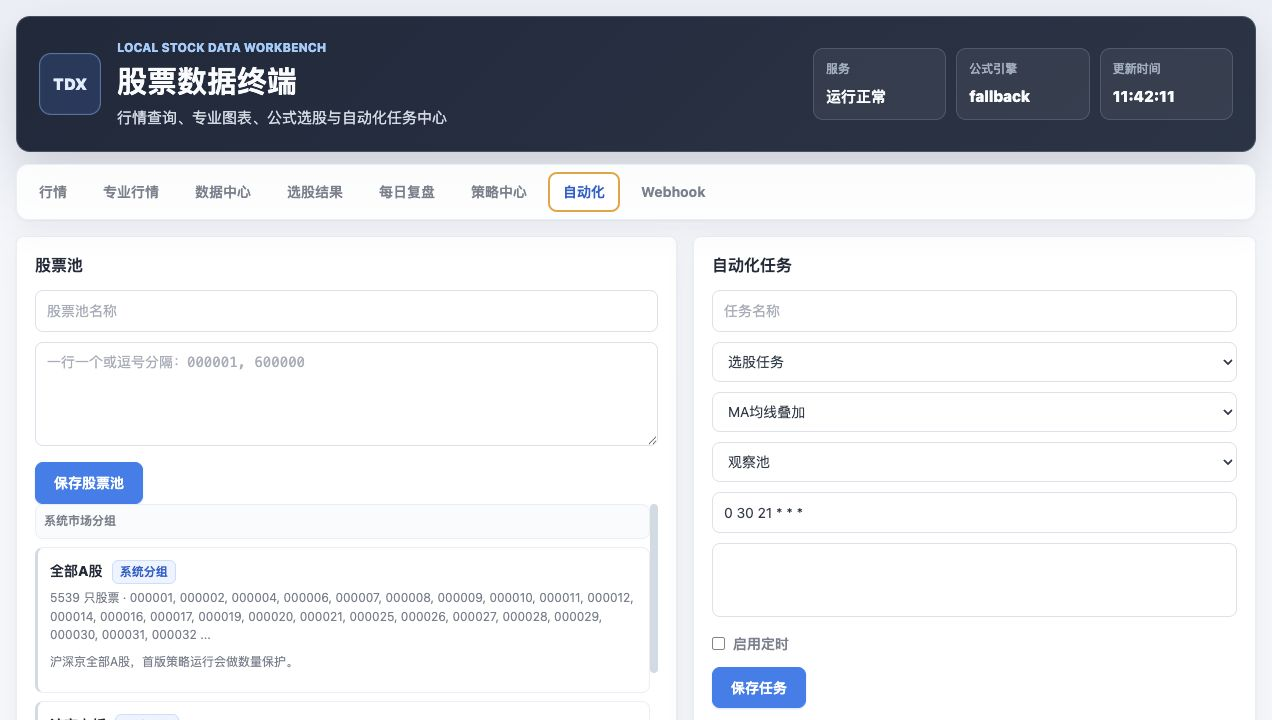
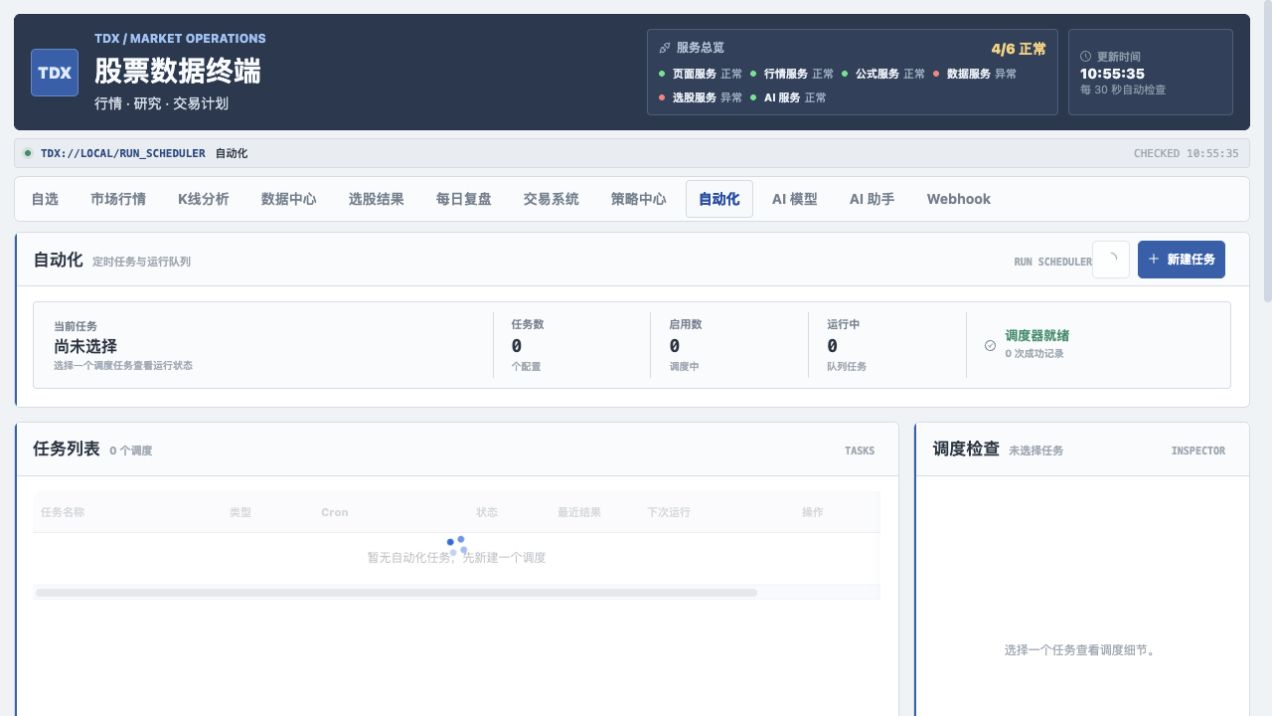
feat: 更新ReadMe

diff --git a/README.md b/README.md
@@ -2,18 +2,19 @@
 
 一个本地运行的 A 股行情与交易研究工作台。
 
-TDX Workbench 把通达信行情、历史 K 线、分时、财务、板块、公式、选股、自动化、交易计划和 AI 辅助分析集中到一个 Web 界面中。它适合用来做个人研究、策略验证、盘后复盘和本地数据服务，不定位为交易终端或投资顾问。
+TDX Workbench 把通达信行情、历史 K 线、分时、财务、板块、公式、选股、自动化、交易计划和 AI 辅助分析集中到一个 Web 界面中。它适合个人研究、策略验证、盘后复盘和本地数据服务，不定位为交易终端或投资顾问。
 
 > 行情数据可能延迟、缺失或出错。AI 输出仅供学习研究和复盘，不构成投资建议。
 
-![TDX Workbench 行情工作台](docs/assets/tdx-workbench-market.png)
+![TDX Workbench 自选列表（当前 React 工作台）](docs/assets/tdx-workbench-market.png)
 
 ## 你可以用它做什么
 
 | 工作区 | 适合做的事 |
 | --- | --- |
 | 自选 | 查看自选列表、实时行情、五档盘口，并打开个股行情弹窗 |
-| 专业行情 | 查看多周期 K 线、分时和自定义指标，支持在 K 线中切换个人公式 |
+| 市场行情 | 查看多周期 K 线、分时和自定义指标，支持在 K 线中切换个人公式 |
+| K 线分析 | 结合历史 K 线、指标和 AI 做结构化研究 |
 | 数据中心 | 查询股票代码、市场概览、财务/F10、股本和收益测算数据 |
 | 选股结果 | 浏览公式选股命中结果，按股票或公式筛选并跳转行情 |
 | 每日复盘 | 沉淀盘后观察、信号和复盘记录 |
@@ -21,14 +22,10 @@ TDX Workbench 把通达信行情、历史 K 线、分时、财务、板块、公
 | 策略中心 | 管理策略规则、执行策略和查看回测/运行结果 |
 | 自动化 | 维护股票池，按 Cron 定时运行公式选股或系统同步 |
 | AI 模型 | 配置 DeepSeek、OpenAI-compatible、通义千问、智谱 GLM 等模型 |
-| 自选分析 | 使用已配置的 AI 模型，结合实时行情、日 K、财务和资讯分析自选池 |
+| AI 助手 / 自选分析 | 结合实时行情、日 K、财务和资讯进行对话或分析自选池 |
 | Webhook | 把选股、策略和自动化任务结果发送到外部通知地址 |
 
-## 功能预览
-
-### 行情与研究
-
-![行情工作台](docs/assets/tdx-workbench-market.png)
+## 当前界面预览
 
 ### 数据中心
 
@@ -67,7 +64,7 @@ curl http://localhost:8080/api/health
 curl http://localhost:8080/api/services/status
 ```
 
-首次启动后，进入页面顶部的 `AI 模型` 工作区，保存一个模型配置，再从 `自选` 工作区点击 `自选分析`。
+首次使用 AI 时，进入 `AI 模型` 工作区保存并启用一个模型配置，再从 `自选` 工作区点击 `自选分析`。不配置 AI 也可以使用行情、数据、公式和策略功能。
 
 ### 常用 Docker 命令
 
@@ -85,14 +82,16 @@ docker compose logs -f ai-service
 docker compose down
 ```
 
+Compose 是完整六服务部署的标准入口。根目录 `Dockerfile` 是早期的单镜像兼容方案，只包含 Web 与公式 worker，不等价于完整 Compose 部署。
+
 ## 系统架构
 
 ```mermaid
 flowchart LR
-    Browser[浏览器 Web 工作台] --> Web[stock-web<br/>页面与 API 网关]
-    Web --> Market[market-service<br/>行情与历史数据]
-    Web --> Formula[formula-worker<br/>公式执行]
-    Web --> Selection[selection-worker<br/>选股与自动化]
+    Browser[浏览器 Web 工作台] --> Web[stock-web<br/>React 页面与 API 网关]
+    Web --> Market[market-service<br/>行情与市场信息]
+    Web --> Formula[formula-worker<br/>HQChartPy2 / fallback]
+    Web --> Selection[selection-worker<br/>选股、策略与自动化]
     Web --> AI[ai-service<br/>模型调用与分析]
     Web --> Hikyuu[hikyuu-data-service<br/>历史数据同步]
     Selection --> Market
@@ -106,7 +105,7 @@ flowchart LR
     AI --> Local
 ```
 
-项目采用多服务结构，但仍然可以通过一条 Compose 命令启动完整闭环。Web 服务负责页面和统一入口，行情、公式、选股、AI 和历史数据分别由独立服务承担，便于单独构建、重启和排障。
+项目采用多服务结构，但仍可以通过一条 Compose 命令启动完整闭环。Go 负责协议、服务 API 和任务调度，Python 负责公式与 Hikyuu 运行时，React 负责工作台 UI。按运行时和故障域拆分是合理的，也便于单独构建、重启和排障；代价是部署、监控与跨服务数据一致性的复杂度更高。
 
 ## 服务清单
 
@@ -118,6 +117,8 @@ flowchart LR
 | 指标选股 | `services/selection-worker/` | `tdx-workbench-selection` | `18082` | 股票池、公式选股、策略和自动化任务 |
 | AI 分析 | `services/ai-service/` | `tdx-workbench-ai` | `18083` | 模型配置、聊天、单股分析和自选分析 |
 | Hikyuu 数据 | `services/hikyuu-data-service/` | `tdx-workbench-hikyuu-data` | `18091` | 全量数据、盘后增量同步和任务状态 |
+
+正常使用只需要访问 `8080`。其他宿主机端口是排障入口；如果部署在共享网络或公网前面，应通过防火墙、反向代理或仅绑定 `127.0.0.1` 限制访问。
 
 共享代码位于：
 
@@ -134,7 +135,7 @@ packages/workbench-core/  # 公式、股票池、策略、任务和存储模型
 2. 点击股票代码或整行，打开行情弹窗。
 3. 在分时、日 K、周 K、月 K 等周期之间切换。
 4. 点击 K 线上的指标名称，选择自己的自定义指标。
-5. 需要时跳转到专业行情工作区继续研究。
+5. 需要时跳转到市场行情或 K 线分析工作区继续研究。
 
 ### 2. 公式选股与自动化
 
@@ -189,11 +190,7 @@ data/
 └── ...                       # 运行快照和任务结果
 ```
 
-建议把 `data/` 纳入本地备份范围，不要在没有备份的情况下执行：
-
-```bash
-rm -rf data/
-```
+建议把 `data/` 纳入本地备份范围，不要在没有备份的情况下删除它。
 
 ## 配置要点
 
@@ -202,7 +199,7 @@ Compose 已经提供了服务间默认地址。需要长期使用或部署到其
 | 变量 | 用途 |
 | --- | --- |
 | `AI_CREDENTIAL_SECRET` | 加密保存 AI 凭据的密钥 |
-| `AI_SERVICE_TOKEN` | Web 与 AI 服务之间的可选访问令牌 |
+| `AI_SERVICE_TOKEN` | Web 与 AI 服务之间的访问令牌 |
 | `DEEPSEEK_API_KEY` | 通过环境变量提供 DeepSeek API Key |
 | `DEEPSEEK_BASE_URL` | DeepSeek 接口地址，默认 `https://api.deepseek.com` |
 | `MARKET_SERVICE_URL` | AI 服务访问行情服务的地址 |
@@ -211,6 +208,8 @@ Compose 已经提供了服务间默认地址。需要长期使用或部署到其
 | `AUTOMATION_SCHEDULER_ENABLED` | 是否启用自动化调度 |
 
 通过环境变量提供的 AI 凭据会以 `env:` 开头显示，并且不能从页面删除。长期部署时请固定 `AI_CREDENTIAL_SECRET`，否则更换密钥后历史凭据可能无法解密。
+
+默认 Compose 配置面向本机试用：`AI_SERVICE_TOKEN` 为空、后端调试端口对宿主机开放，且 `AI_CREDENTIAL_SECRET` 有开发默认值。生产或共享网络使用前，必须改成强随机密钥、设置服务令牌，并收紧端口暴露。
 
 ## 常用 API
 
@@ -254,37 +253,40 @@ curl -X POST "http://localhost:8080/api/ai/analyze/watchlist" \
 要求：
 
 - Go 1.23+
-- Python 3
+- Python 3.11+
+- Node.js 18+
 - SQLite
 - 如果需要完整公式能力，准备 HQChartPy2 构建环境
 
-推荐优先使用 Docker。源码运行时需要分别启动依赖服务：
+推荐优先使用 Docker。源码开发时先构建 React 前端：
+
+```bash
+cd apps/web/frontend
+npm ci
+npm run build
+```
+
+构建产物会写入 `apps/web/static-react/`。然后分别启动依赖服务：
 
 下面每组命令都应在独立终端中运行；这些服务启动后会持续占用当前终端。
 
 ```bash
-# 公式服务
 python3 services/formula-worker/worker.py
+(cd services/market-service && go run .)
+(cd services/selection-worker && go run .)
+(cd services/ai-service && go run .)
+(cd apps/web && go run .)
+```
 
-# 行情服务
-cd services/market-service
-go run .
+Hikyuu 服务需要先安装 `services/hikyuu-data-service/requirements.txt` 和 `hikyuu`，再从该目录运行 `uvicorn app:app --host 0.0.0.0 --port 8091`。
 
-# Hikyuu 数据服务
-cd ../hikyuu-data-service
-python3 -m pip install -r requirements.txt
-uvicorn app:app --host 0.0.0.0 --port 8091
+源码模式下，如需让 Web 走独立行情、公式和 AI 服务，请显式设置服务地址：
 
-# 选股服务
-cd ../selection-worker
-go run .
-
-# AI 服务
-cd ../ai-service
-go run .
-
-# Web 工作台
-cd ../../apps/web
+```bash
+cd apps/web
+MARKET_SERVICE_URL=http://localhost:8081 \
+FORMULA_WORKER_URL=http://localhost:8712 \
+AI_SERVICE_URL=http://localhost:8083 \
 go run .
 ```
 
@@ -297,6 +299,8 @@ PORT=18080 go run .
 
 ## 开发验证
 
+根目录是多模块 `go.work` 工作区，不能用根目录的 `go test ./...` 代替模块级测试。
+
 ```bash
 # Compose 配置
 docker compose config --quiet
@@ -305,13 +309,21 @@ docker compose config --quiet
 node --check apps/web/static/app.js
 
 # Go 模块测试
-cd packages/tdx-core && go test ./...
-cd ../workbench-core && go test ./...
-cd ../../apps/web && go test ./...
-cd ../../services/market-service && go test ./...
-cd ../selection-worker && go test ./...
-cd ../ai-service && go test ./...
+for module in \
+  packages/tdx-core \
+  packages/workbench-core \
+  apps/web \
+  services/market-service \
+  services/selection-worker \
+  services/ai-service; do
+  (cd "$module" && go test ./...)
+done
+
+# React 前端
+(cd apps/web/frontend && npm ci && npm run build)
 ```
+
+`apps/web/static-react/` 是 Docker 镜像直接提供的构建产物。修改 `frontend/src/` 后要重新构建并提交产物，或在 CI 中完成这一步。
 
 服务状态检查：
 
@@ -325,6 +337,7 @@ curl http://localhost:8080/api/services/status
 ```text
 tdx-api/
 ├── apps/web/                    # Web 页面、API 网关和工作台后端
+│   └── frontend/                # React + Vite 源码
 ├── services/
 │   ├── market-service/          # 独立行情服务
 │   ├── formula-worker/          # 公式执行服务
@@ -334,11 +347,11 @@ tdx-api/
 ├── packages/
 │   ├── tdx-core/                # 通达信核心库
 │   └── workbench-core/          # 工作台共享模型和存储
-├── data/                        # 本地数据库和同步数据
+├── data/                        # SQLite、Hikyuu 数据和任务快照
 ├── docs/                        # 使用、部署、API 和算法文档
 ├── scripts/                     # 示例脚本和日常工具
-├── docker-compose.yml
-└── go.work
+├── docker-compose.yml           # 完整多服务部署入口
+└── go.work                      # Go 多模块工作区
 ```
 
 ## 文档导航
